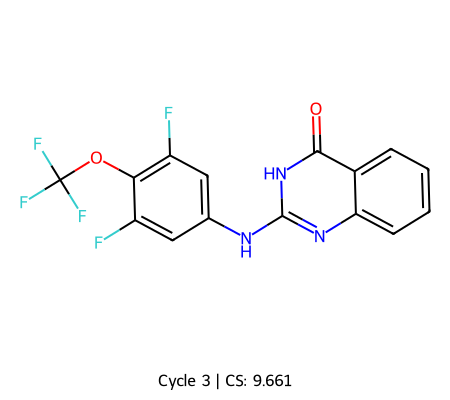
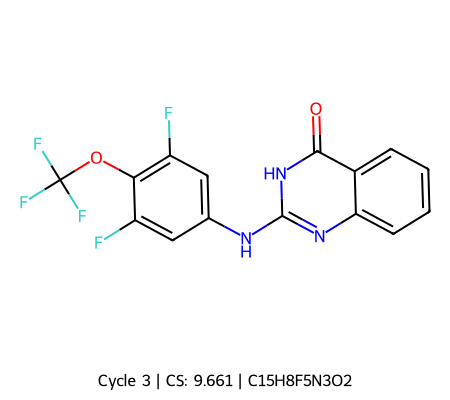
feat(utils): Enhance image generator with formula and add regen script

Changed region(s): [[0.2178, 0.93, 0.7778, 0.99]]

diff --git a/prometheus/utils.py b/prometheus/utils.py
@@ -10,6 +10,7 @@ from datetime import datetime
 
 from rdkit import Chem
 from rdkit.Chem import AllChem, Draw
+from rdkit.Chem.rdMolDescriptors import CalcMolFormula
 from rdkit.Chem.Draw import rdMolDraw2D
 
 logger = logging.getLogger(__name__)
@@ -29,6 +30,17 @@ def generate_molecule_image(
             logger.error("Could not parse SMILES – skipping image generation: %s", smiles)
             return False
 
+        # --- NEW: Automatically calculate and add the formula ---
+        try:
+            mol_with_hs = Chem.AddHs(mol)
+            formula = CalcMolFormula(mol_with_hs)
+            # Create a rich legend with the name and the formula
+            legend = f"{molecule_name} | {formula}"
+        except Exception:
+            # Fallback to the original name if formula calculation fails
+            legend = molecule_name
+        # --- END OF NEW CODE ---
+
         # Explicitly generate a single, clean 2D conformation.
         AllChem.Compute2DCoords(mol)
 
@@ -39,7 +51,7 @@ def generate_molecule_image(
 
         width, height = size
         drawer = rdMolDraw2D.MolDraw2DSVG(width, height)
-        drawer.DrawMolecule(mol, legend=molecule_name)
+        drawer.DrawMolecule(mol, legend=legend)
         drawer.FinishDrawing()
         svg = drawer.GetDrawingText()
 
@@ -50,7 +62,7 @@ def generate_molecule_image(
             svg2png(bytestring=svg.encode(), write_to=str(output_path))
         except ImportError:
             logger.debug("cairosvg not available – falling back to RDKit PNG rendering.")
-            img = Draw.MolToImage(mol, size=size, legend=molecule_name)
+            img = Draw.MolToImage(mol, size=size, legend=legend)
             img.save(output_path)
 
         logger.debug("Generated molecule image at %s", output_path)

diff --git a/scripts/generate_single_image.py b/scripts/generate_single_image.py
@@ -1,0 +1,39 @@
+# scripts/generate_single_image.py
+"""
+A simple, standalone utility to generate a 2D image for a single molecule.
+This is a safe way to regenerate champion images without re-running an entire mission.
+"""
+import sys
+from pathlib import Path
+import argparse
+
+# --- Setup Project Path ---
+project_root = Path(__file__).resolve().parents[1]
+sys.path.append(str(project_root))
+
+# --- Imports ---
+from prometheus.utils import generate_molecule_image
+
+def main():
+    parser = argparse.ArgumentParser(description="Generate a 2D molecule image with its formula.")
+    parser.add_argument("smiles", help="The SMILES string of the molecule.")
+    parser.add_argument("output_path", help="The full path for the output PNG image.")
+    parser.add_argument("--title", help="The title to display on the image (e.g., 'Cycle 3 | CS: 9.661').", default="Molecule")
+    args = parser.parse_args()
+
+    print(f"Generating image for: {args.smiles}")
+    print(f"Saving to: {args.output_path}")
+
+    success = generate_molecule_image(
+        smiles=args.smiles,
+        output_path=Path(args.output_path),
+        molecule_name=args.title
+    )
+
+    if success:
+        print("✅ Image generated successfully!")
+    else:
+        print("❌ Failed to generate image.")
+
+if __name__ == "__main__":
+    main()

diff --git a/scripts/get_formula.py b/scripts/get_formula.py
@@ -1,0 +1,29 @@
+# scripts/get_formula.py
+import sys
+from rdkit import Chem
+from rdkit.Chem.rdMolDescriptors import CalcMolFormula
+
+def get_formula_from_smiles(smiles: str) -> str:
+    """Calculates the molecular formula from a SMILES string."""
+    try:
+        mol = Chem.MolFromSmiles(smiles)
+        if mol is None:
+            return "Invalid SMILES string"
+        
+        # Add explicit hydrogens to get the correct atom count
+        mol_with_hs = Chem.AddHs(mol)
+        
+        # Calculate the formula
+        formula = CalcMolFormula(mol_with_hs)
+        return formula
+    except Exception as e:
+        return f"An error occurred: {e}"
+
+if __name__ == "__main__":
+    if len(sys.argv) != 2:
+        print("Usage: python scripts/get_formula.py '<SMILES_STRING>'")
+    else:
+        smiles_input = sys.argv[1]
+        formula_output = get_formula_from_smiles(smiles_input)
+        print(f"SMILES: {smiles_input}")
+        print(f"Formula: {formula_output}")
